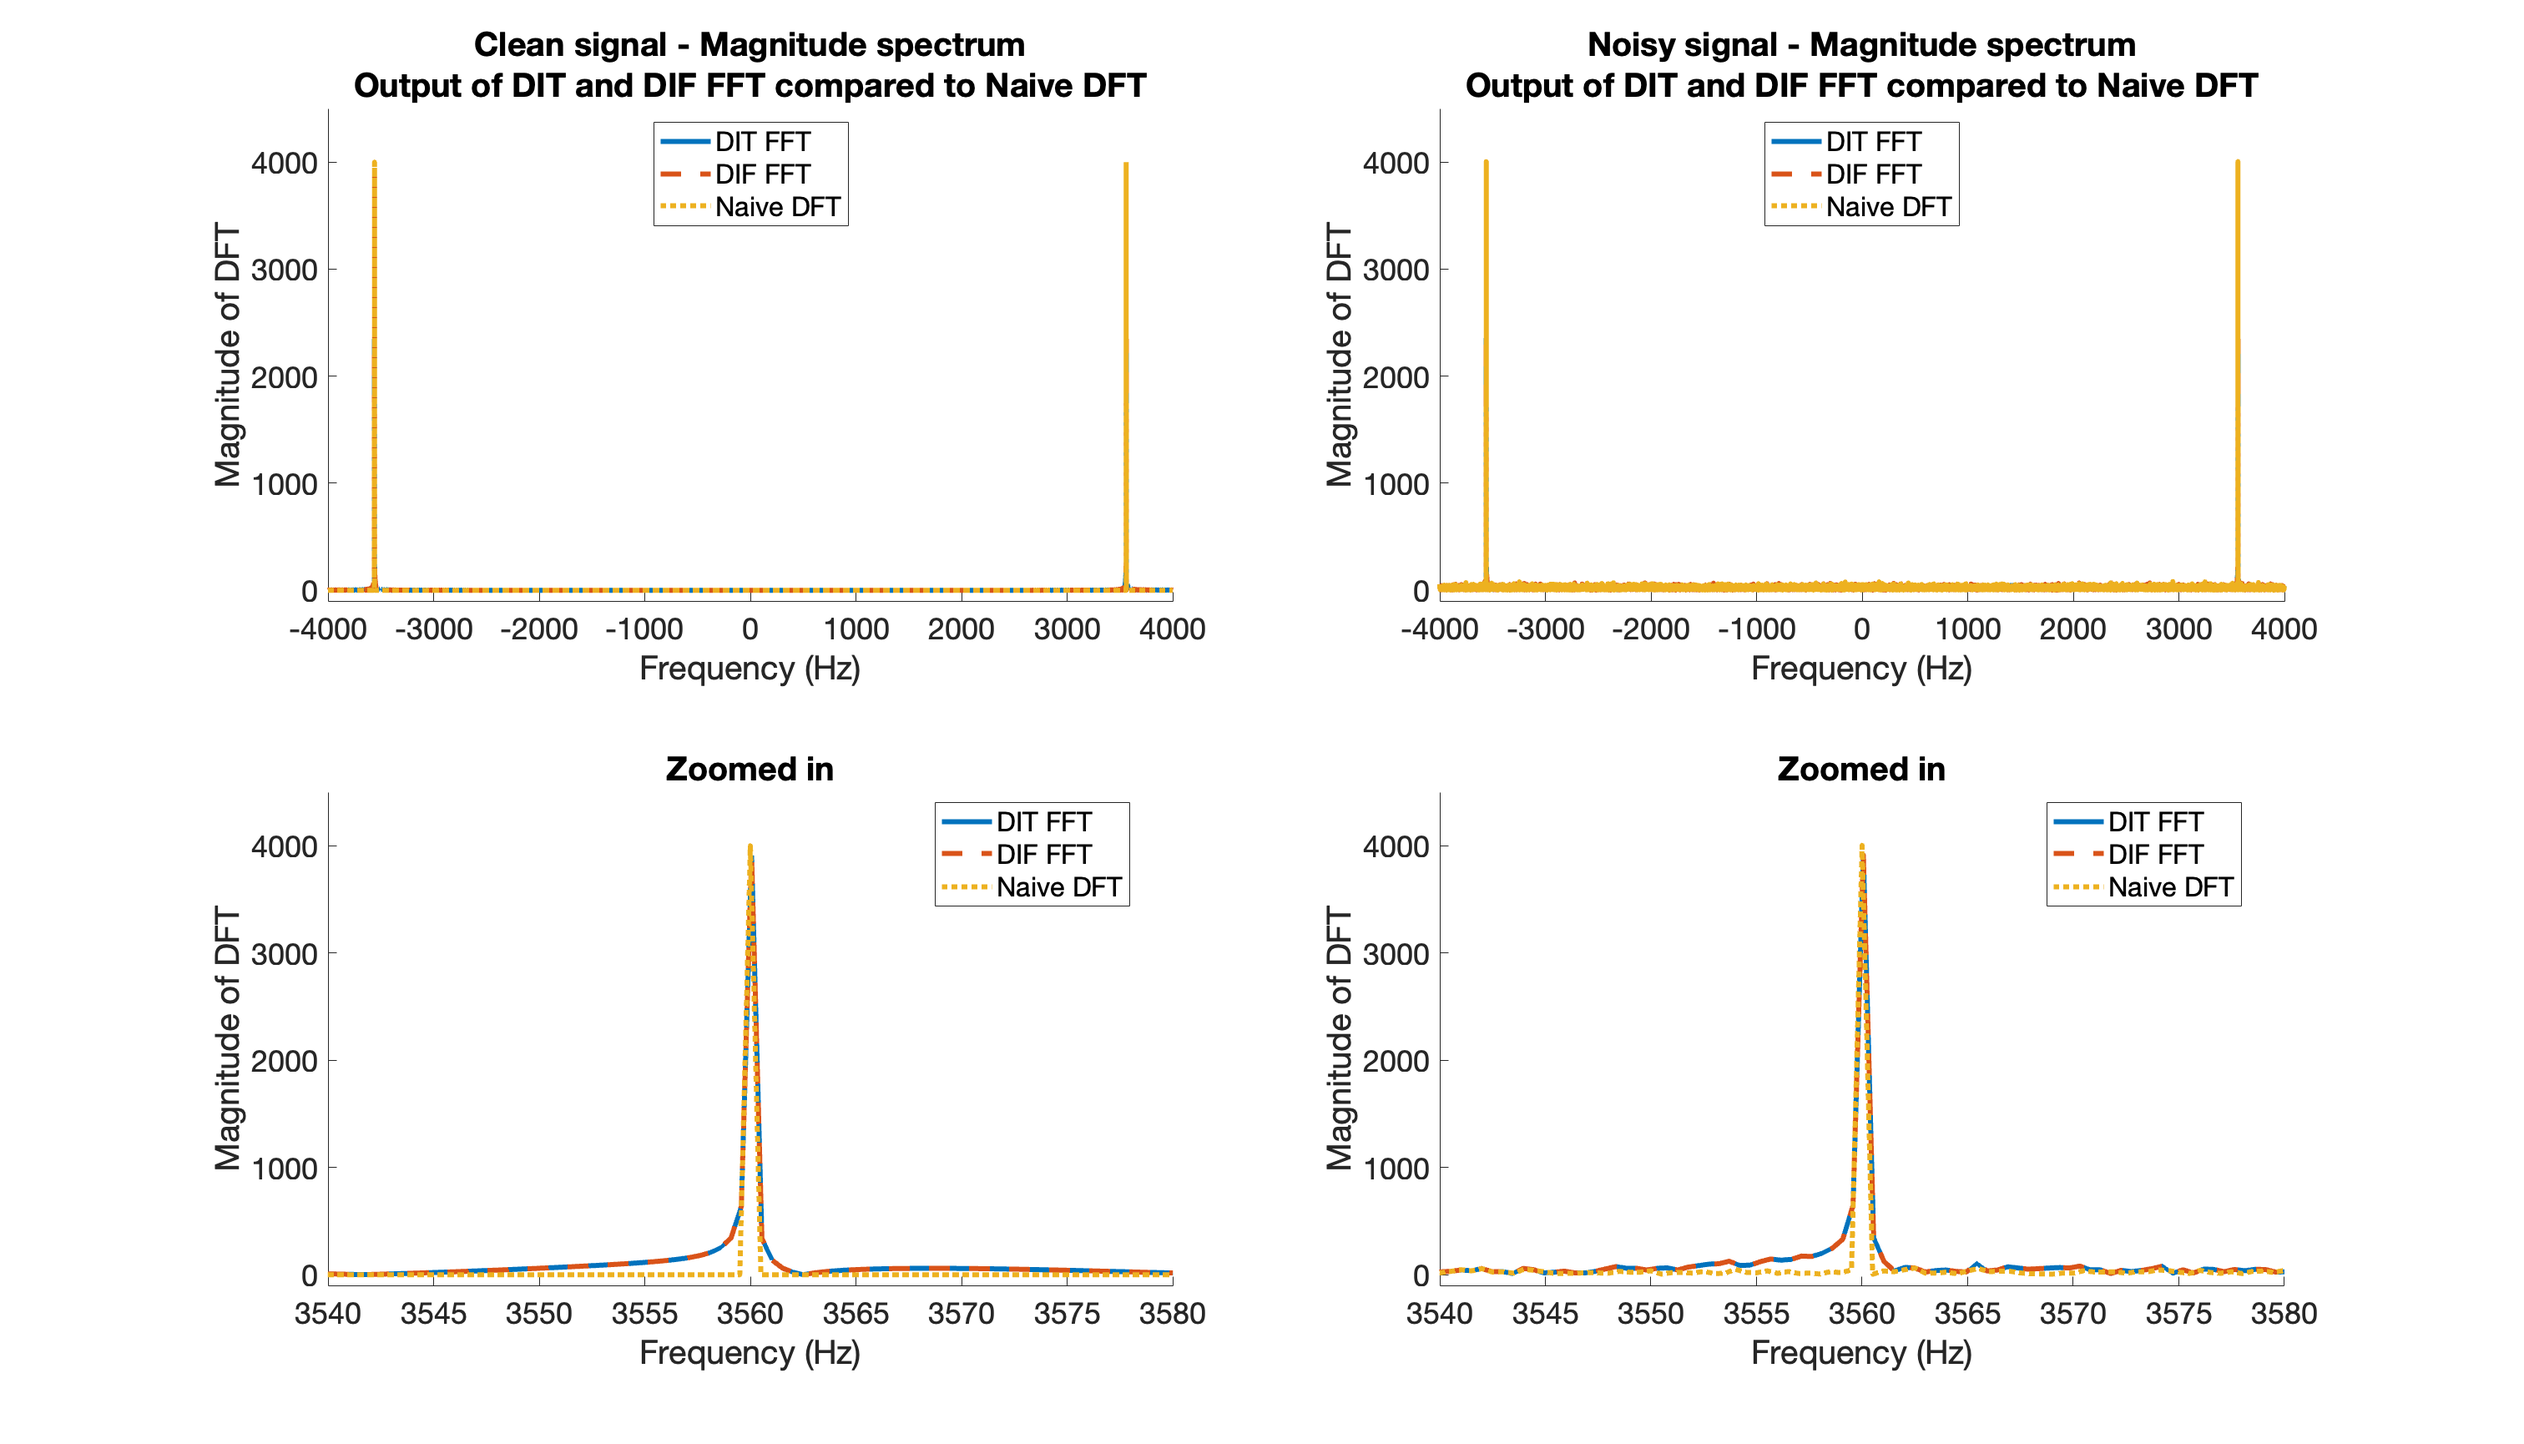
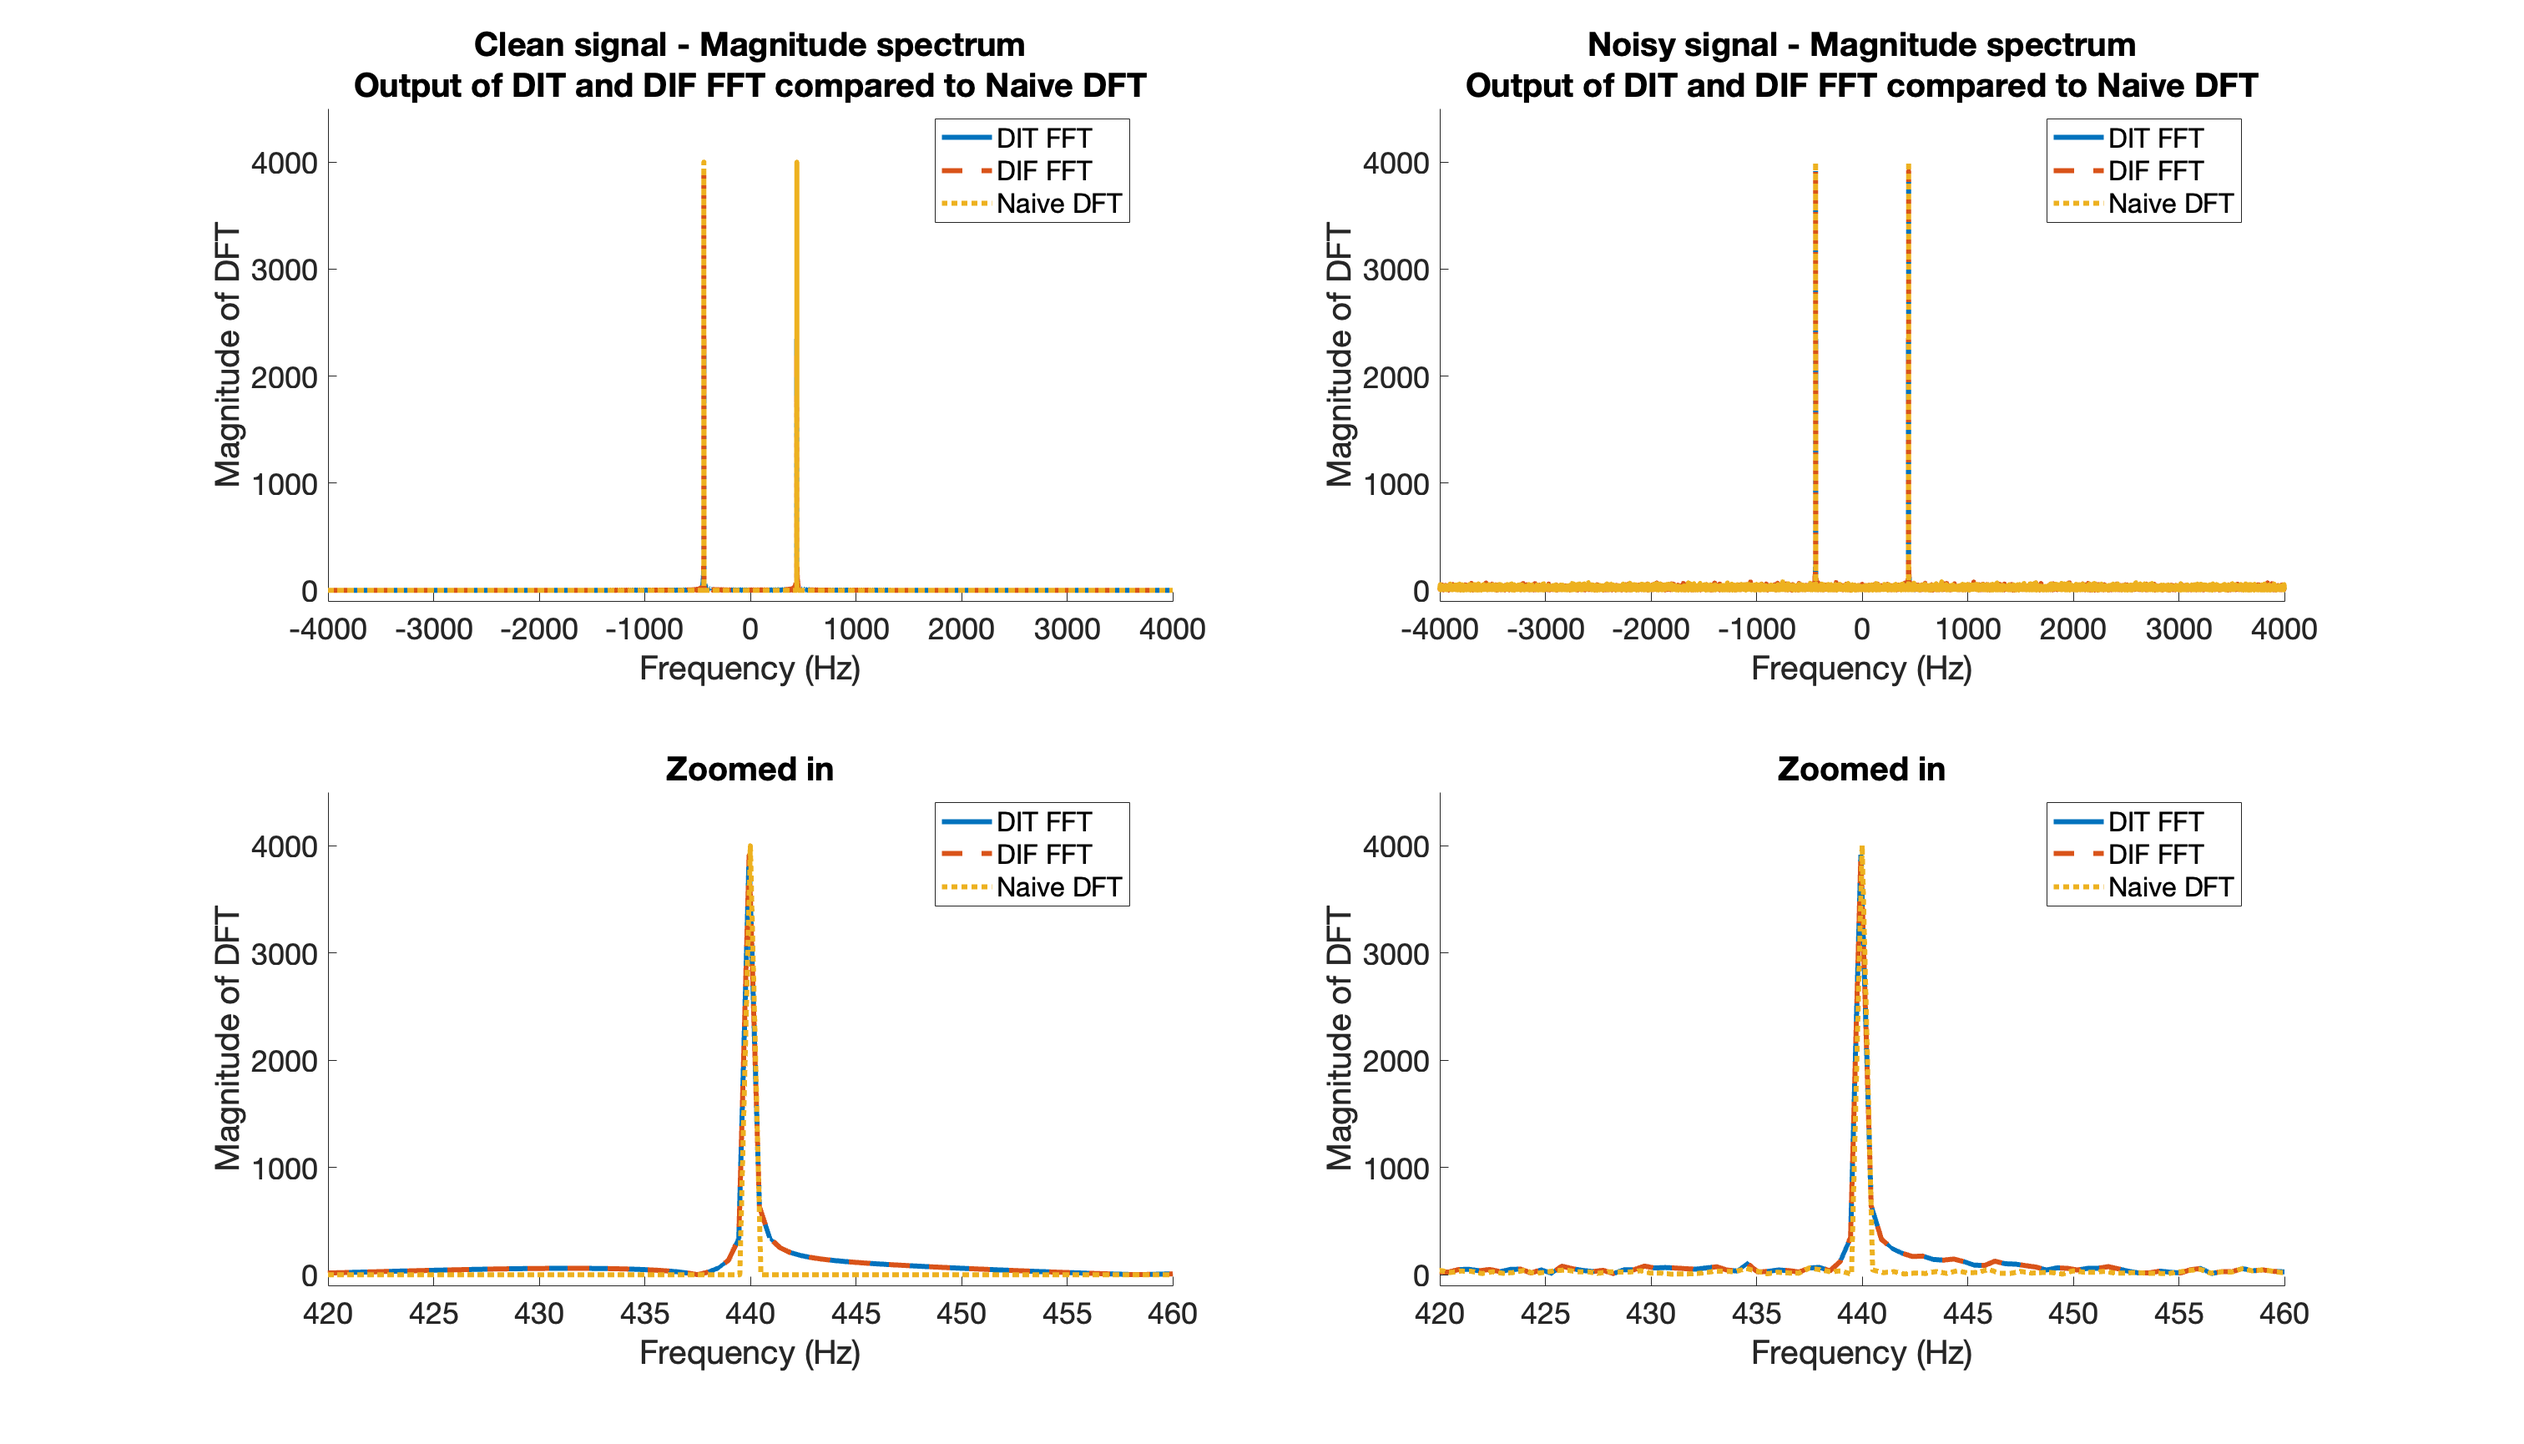
Fixed bug where frequency was incorrect due to not using fftshift

diff --git a/src/to_submit/main.m b/src/to_submit/main.m
@@ -12,14 +12,15 @@ clear; clc;
 [noisy_signal, Fs] = audioread('noisy_signal.wav');
 
 % Compute dft of each signal using each algorithm
-clean_signal_dit_fft = dit_fft(clean_signal);
-noisy_signal_dit_fft = dit_fft(noisy_signal);
+% Shift zero-frequency component to center of spectrum
+clean_signal_dit_fft = fftshift(dit_fft(clean_signal));
+noisy_signal_dit_fft = fftshift(dit_fft(noisy_signal));
 disp("Computed DIT FFT of signals")
-clean_signal_dif_fft = dif_fft(clean_signal);
-noisy_signal_dif_fft = dif_fft(noisy_signal);
+clean_signal_dif_fft = fftshift(dif_fft(clean_signal));
+noisy_signal_dif_fft = fftshift(dif_fft(noisy_signal));
 disp("Computed DIF FFT of signals")
-clean_signal_naive_dft = naive_dft(clean_signal);
-noisy_signal_naive_dft = naive_dft(noisy_signal);
+clean_signal_naive_dft = fftshift(naive_dft(clean_signal));
+noisy_signal_naive_dft = fftshift(naive_dft(noisy_signal));
 disp("Computed Naive DFT of signals")
 
 % Find the length of the audio signals
@@ -34,7 +35,7 @@ f_dif_dit = (-N_fft/2:(N_fft/2-1)) * (Fs / N) * (N / N_fft); % Hz
 % Figure formatting
 f1 = figure(1); % Plot clean signal on left, noisy signal on right
 y_lim_top  = 4500; y_lim_bottom = -100; % Range of y for each plot
-x_lim_left = 3540; x_lim_right  = 3580; % Zoomed in x domain 
+x_lim_left = 420; x_lim_right  = 460; % Zoomed in x domain 
 linewidth = 3;
 font_size = 18;
 
@@ -49,7 +50,7 @@ title({"Clean signal - Magnitude spectrum"
 xlabel("Frequency (Hz)")
 ylabel("Magnitude of DFT")
 ylim([y_lim_bottom y_lim_top])
-legend(["DIT FFT", "DIF FFT","Naive DFT"], 'Location', 'north')
+legend(["DIT FFT", "DIF FFT","Naive DFT"], 'Location', 'best')
 ax = gca;
 ax.FontSize = font_size;
 
@@ -77,7 +78,7 @@ title({"Noisy signal - Magnitude spectrum"
 xlabel("Frequency (Hz)")
 ylabel("Magnitude of DFT")
 ylim([y_lim_bottom y_lim_top])
-legend(["DIT FFT", "DIF FFT","Naive DFT"], 'Location', 'north')
+legend(["DIT FFT", "DIF FFT","Naive DFT"], 'Location', 'best')
 ax = gca;
 ax.FontSize = font_size;
 
